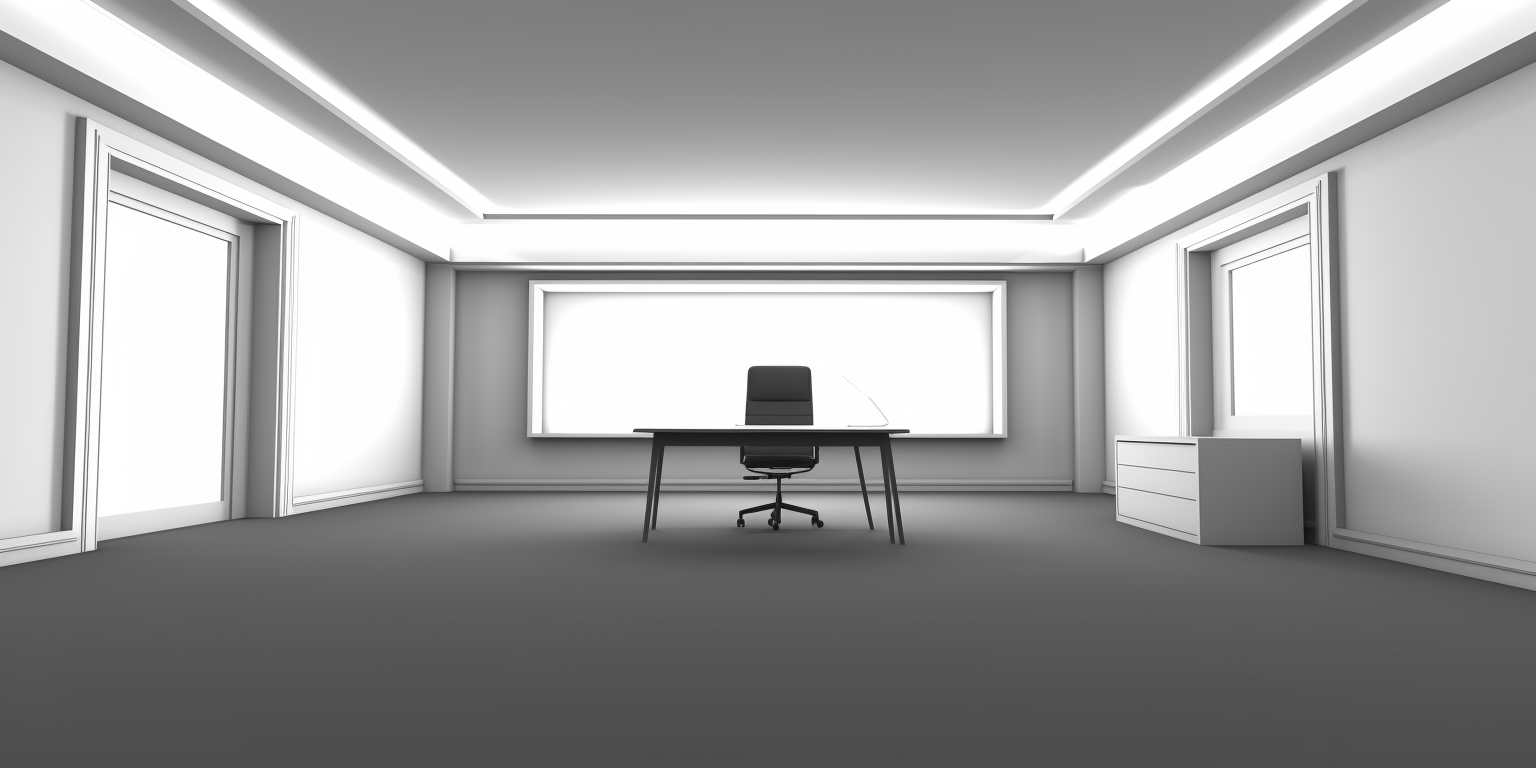
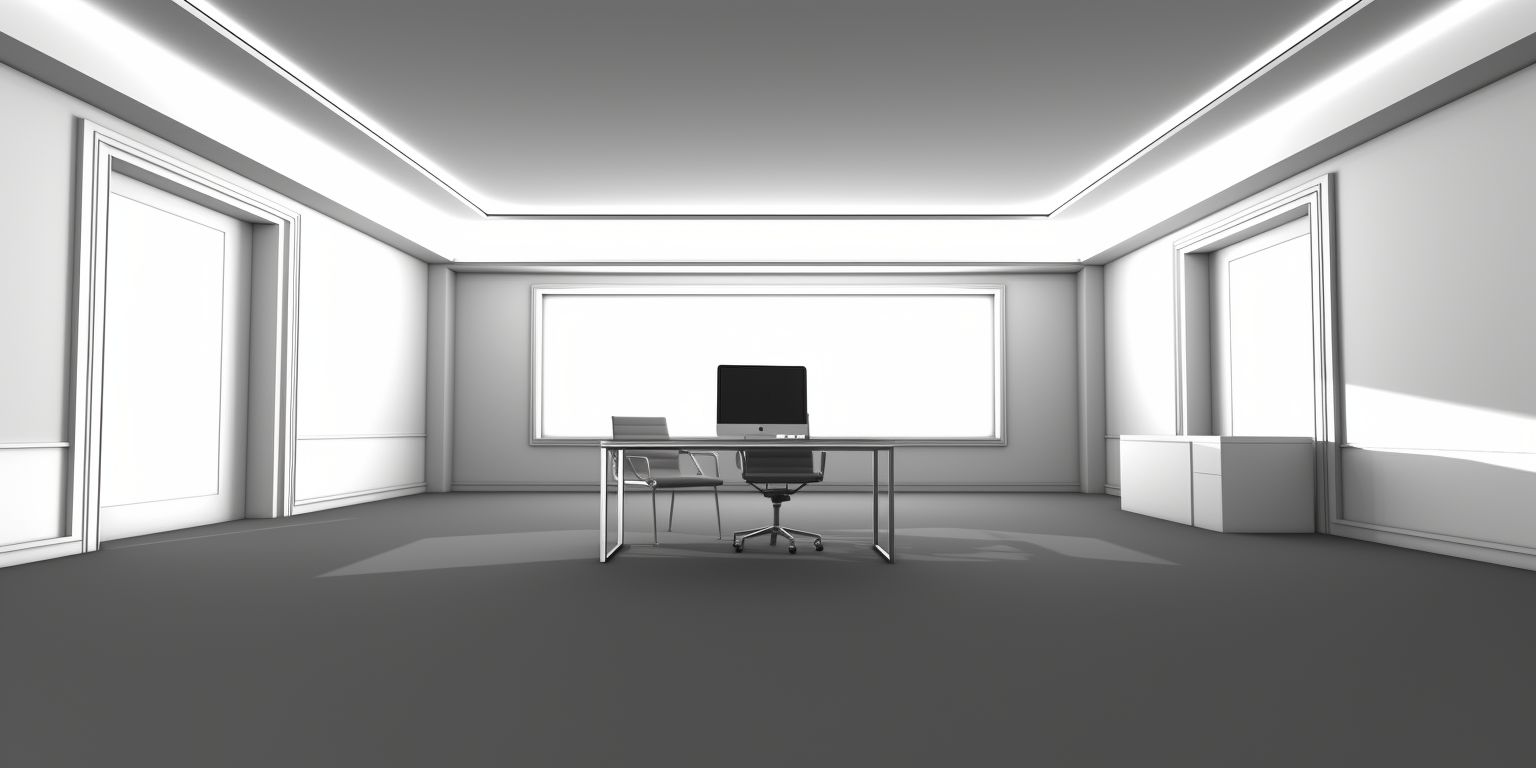
improved processing commands and level 2

diff --git a/templates/prev_level.html b/templates/prev_level.html
@@ -1,0 +1,32 @@
+{% extends "layout.html" %}
+
+{% block title %}
+login
+{% endblock %}
+
+{% block content %}
+<form method="POST">
+    <div class="container">
+        <div class="grid-item logo hide"></div>
+        <div class="grid-item level">Previous Level</div>
+        <div class="grid-item topright hide"></div>
+        <div class="grid-item healthbar hide">4</div>
+        <div class="grid-item main">
+            <p>
+                <h3 style="color: white;">Level: {{user_level}}</h3>
+                <br>
+                <button id="submit" type="submit" class="btn">▶ continue</button>
+            </p>
+        </div>
+        <div class="grid-item inventory hide"></div>
+
+        <div class="grid-item bottomleft hide">7</div>
+        <div class="grid-item commandline">
+            <span class="msg">{{msg}}</span>
+        </div>
+        <div class="grid-item bottomright hide"></div>
+
+    </div>
+</form>
+{% endblock %}  
+

diff --git a/templates/next_level.html b/templates/next_level.html
@@ -1,0 +1,32 @@
+{% extends "layout.html" %}
+
+{% block title %}
+login
+{% endblock %}
+
+{% block content %}
+<form method="POST">
+    <div class="container">
+        <div class="grid-item logo hide"></div>
+        <div class="grid-item level">Next Level</div>
+        <div class="grid-item topright hide"></div>
+        <div class="grid-item healthbar hide">4</div>
+        <div class="grid-item main">
+            <p>
+                <h3 style="color: white;">Level: {{user_level}}</h3>
+                <br>
+                <button id="submit" type="submit" class="btn">▶ continue</button>
+            </p>
+        </div>
+        <div class="grid-item inventory hide"></div>
+
+        <div class="grid-item bottomleft hide">7</div>
+        <div class="grid-item commandline">
+            <span class="msg">{{msg}}</span>
+        </div>
+        <div class="grid-item bottomright hide"></div>
+
+    </div>
+</form>
+{% endblock %}  
+

diff --git a/flask_app.py b/flask_app.py
@@ -1,7 +1,8 @@
 from flask import Flask, render_template, request, redirect, url_for, flash, session, jsonify
 from flask_session import Session
-from database import connector, check_login, register_user, get_user_data, Room, init_rooms
+from database import connector, check_login, register_user, get_user_data, Room, init_rooms, update_user
 from process import process
+import sqlite3
 
 
 app = Flask(__name__)
@@ -40,9 +41,61 @@ def home():
     if request.method == 'POST':
         command = request.form['command']
         msg = process(command, inventory, room[level])
+        print()
+        print("-- -- --")
+        print(f"msg: {msg}")
+        if msg == "You exit the room":
+            level += 1
+            print("Redirecting to next level")
+            return redirect(url_for('next_level'))
 
     return render_template('home.html', msg=msg, inventory=inventory, user_level=user_level, room_data=room_data, username=username)
 
+
+@app.route('/next_level', methods=['GET', 'POST'])
+def next_level():
+
+    print("*** Entering NEXT LEVEL route ***")
+
+    global level, room, inventory, score
+    if 'user' not in session:
+            return redirect(url_for('login'))
+    
+    username = session['user']
+    user_data = get_user_data(username)
+
+    user_level = level
+
+    update_user(username, inventory, level, score)
+
+    if request.method == 'POST':
+        print('Redirecting to home')
+        return redirect(url_for('home'))
+
+    return render_template('next_level.html', user_level=user_level, username=username)
+
+@app.route('/prev_level', methods=['GET', 'POST'])
+def prev_level():
+
+    print("*** Entering PREVIOUS LEVEL route ***")
+
+    global level, room, inventory, score
+    if 'user' not in session:
+            return redirect(url_for('login'))
+    
+    username = session['user']
+    user_data = get_user_data(username)
+
+    level = level - 1
+    user_level = level
+
+    update_user(username, inventory, level, score)
+
+    if request.method == 'POST':
+        print('Redirecting to home')
+        return redirect(url_for('home'))
+
+    return render_template('prev_level.html', user_level=user_level, username=username)
 
 @app.route('/register', methods=['GET', 'POST'])
 def register():
@@ -98,6 +151,22 @@ def login():
 def logout():
     session.clear()
     return redirect(url_for('home'))
+
+# dump all the data in the database to the screen
+@app.route('/dump1', methods=['GET', 'POST'])
+def dump1():
+    conn = sqlite3.connect('database.db')
+    c = conn.cursor()
+    c.execute("SELECT * FROM users")
+    data = c.fetchall()
+    conn.close()
+    return jsonify(data)
+
+# dump all the session data, and global variables to the screen
+@app.route('/dump2', methods=['GET', 'POST'])
+def dump2():
+    return jsonify(session, level, score, inventory, room)
+
 
 
 # -------------------------------------------------------------------------------------------

diff --git a/process.py b/process.py
@@ -46,12 +46,36 @@ def process(inp, inventory, room_data):
         print(f"User command: ", inp)
         print(f"Thing: ", thing)
         print(f"room_data.objects: ", room_data.objects)
-        if thing in room_data.objects.values():
-            for key, value in room_data.objects.items():
-                if value == thing:
-                    inventory.append(thing)
-                    room_data.objects[key] = ""
-                    return f"You take the {thing}"
+        if thing in room_data.objects.values() or "<" + thing + ">" in room_data.objects.values():
+            if thing[0] == "<":
+                return f"You can't take the {thing}"
+            else:
+                for key, value in room_data.objects.items():
+                    if value == thing:
+                        inventory.append(thing)
+                        room_data.objects[key] = ""
+                        return f"You take the {thing}"
+            
+        else:
+            return f"You don't see a {thing} in the room"
+        
+    elif "get" in inp:
+        thing = inp.split("get ")[1]
+        thing = thing.replace(' ', '')
+        print(f"User command: ", inp)
+        print(f"Thing: ", thing)
+        print(f"room_data.objects: ", room_data.objects)
+        if thing in room_data.objects.values() or "<" + thing + ">" in room_data.objects.values():
+            if thing[0] == "<":
+                return f"You can't take the {thing}"
+            else:
+                thing = thing.replace('<', '')
+                thing = thing.replace('>', '')
+                for key, value in room_data.objects.items():
+                    if value == thing:
+                        inventory.append(thing)
+                        room_data.objects[key] = ""
+                        return f"You take the {thing}"
            
         else:
             return f"You don't see a {thing} in the room"
@@ -73,7 +97,7 @@ def process(inp, inventory, room_data):
         return "You pull a muscle"
 
     words = inp.split(" ")
-    bad_words = ["hit","break","fuck","smash","kick"]
+    bad_words = ["hit","break","smash","kick"]
 
     for word in words:
         if word in bad_words:

diff --git a/database.py b/database.py
@@ -32,6 +32,18 @@ def register_user(name, email, username, password, level, score, inventory):
     conn.commit()
     conn.close()
 
+def update_user(username, inventory, level, score):
+    inv_string = ""
+    for el in inventory:
+        inv_string += el + ","
+    inventory = inv_string[:-1]
+    print(f"*** Inventory: {inventory}")
+    conn = sqlite3.connect('database.db')
+    c = conn.cursor()
+    c.execute("UPDATE users SET level = ?, score = ?, inventory = ? WHERE username = ?", (level, score, inventory, username))
+    conn.commit()
+    conn.close()
+
 
 class Room:
     def __init__(self="", level=0, description="", type="", door_locked=True, furniture="", objects="", expected_words="", expected_output=""):
@@ -53,9 +65,17 @@ def init_rooms():
                    "inventory",
                    True,
                    "table,chair,door" , 
-                   {"table":"key", "door":"doorlock", "chair":""}, 
+                   {"table":"key", "door":"<doorlock>", "chair":""}, 
                    "", 
                    "")
+    room[2] = Room(2,
+                     "You are in a room. There is a table and a chair. There is a door to your left.", 
+                     "code",
+                     True,
+                     "table,chair,door" , 
+                     {"table":"computer", "door":"<doorlock>", "chair":""}, 
+                     "print,Hello,World", 
+                     "Hello World")
     return room
     
 
